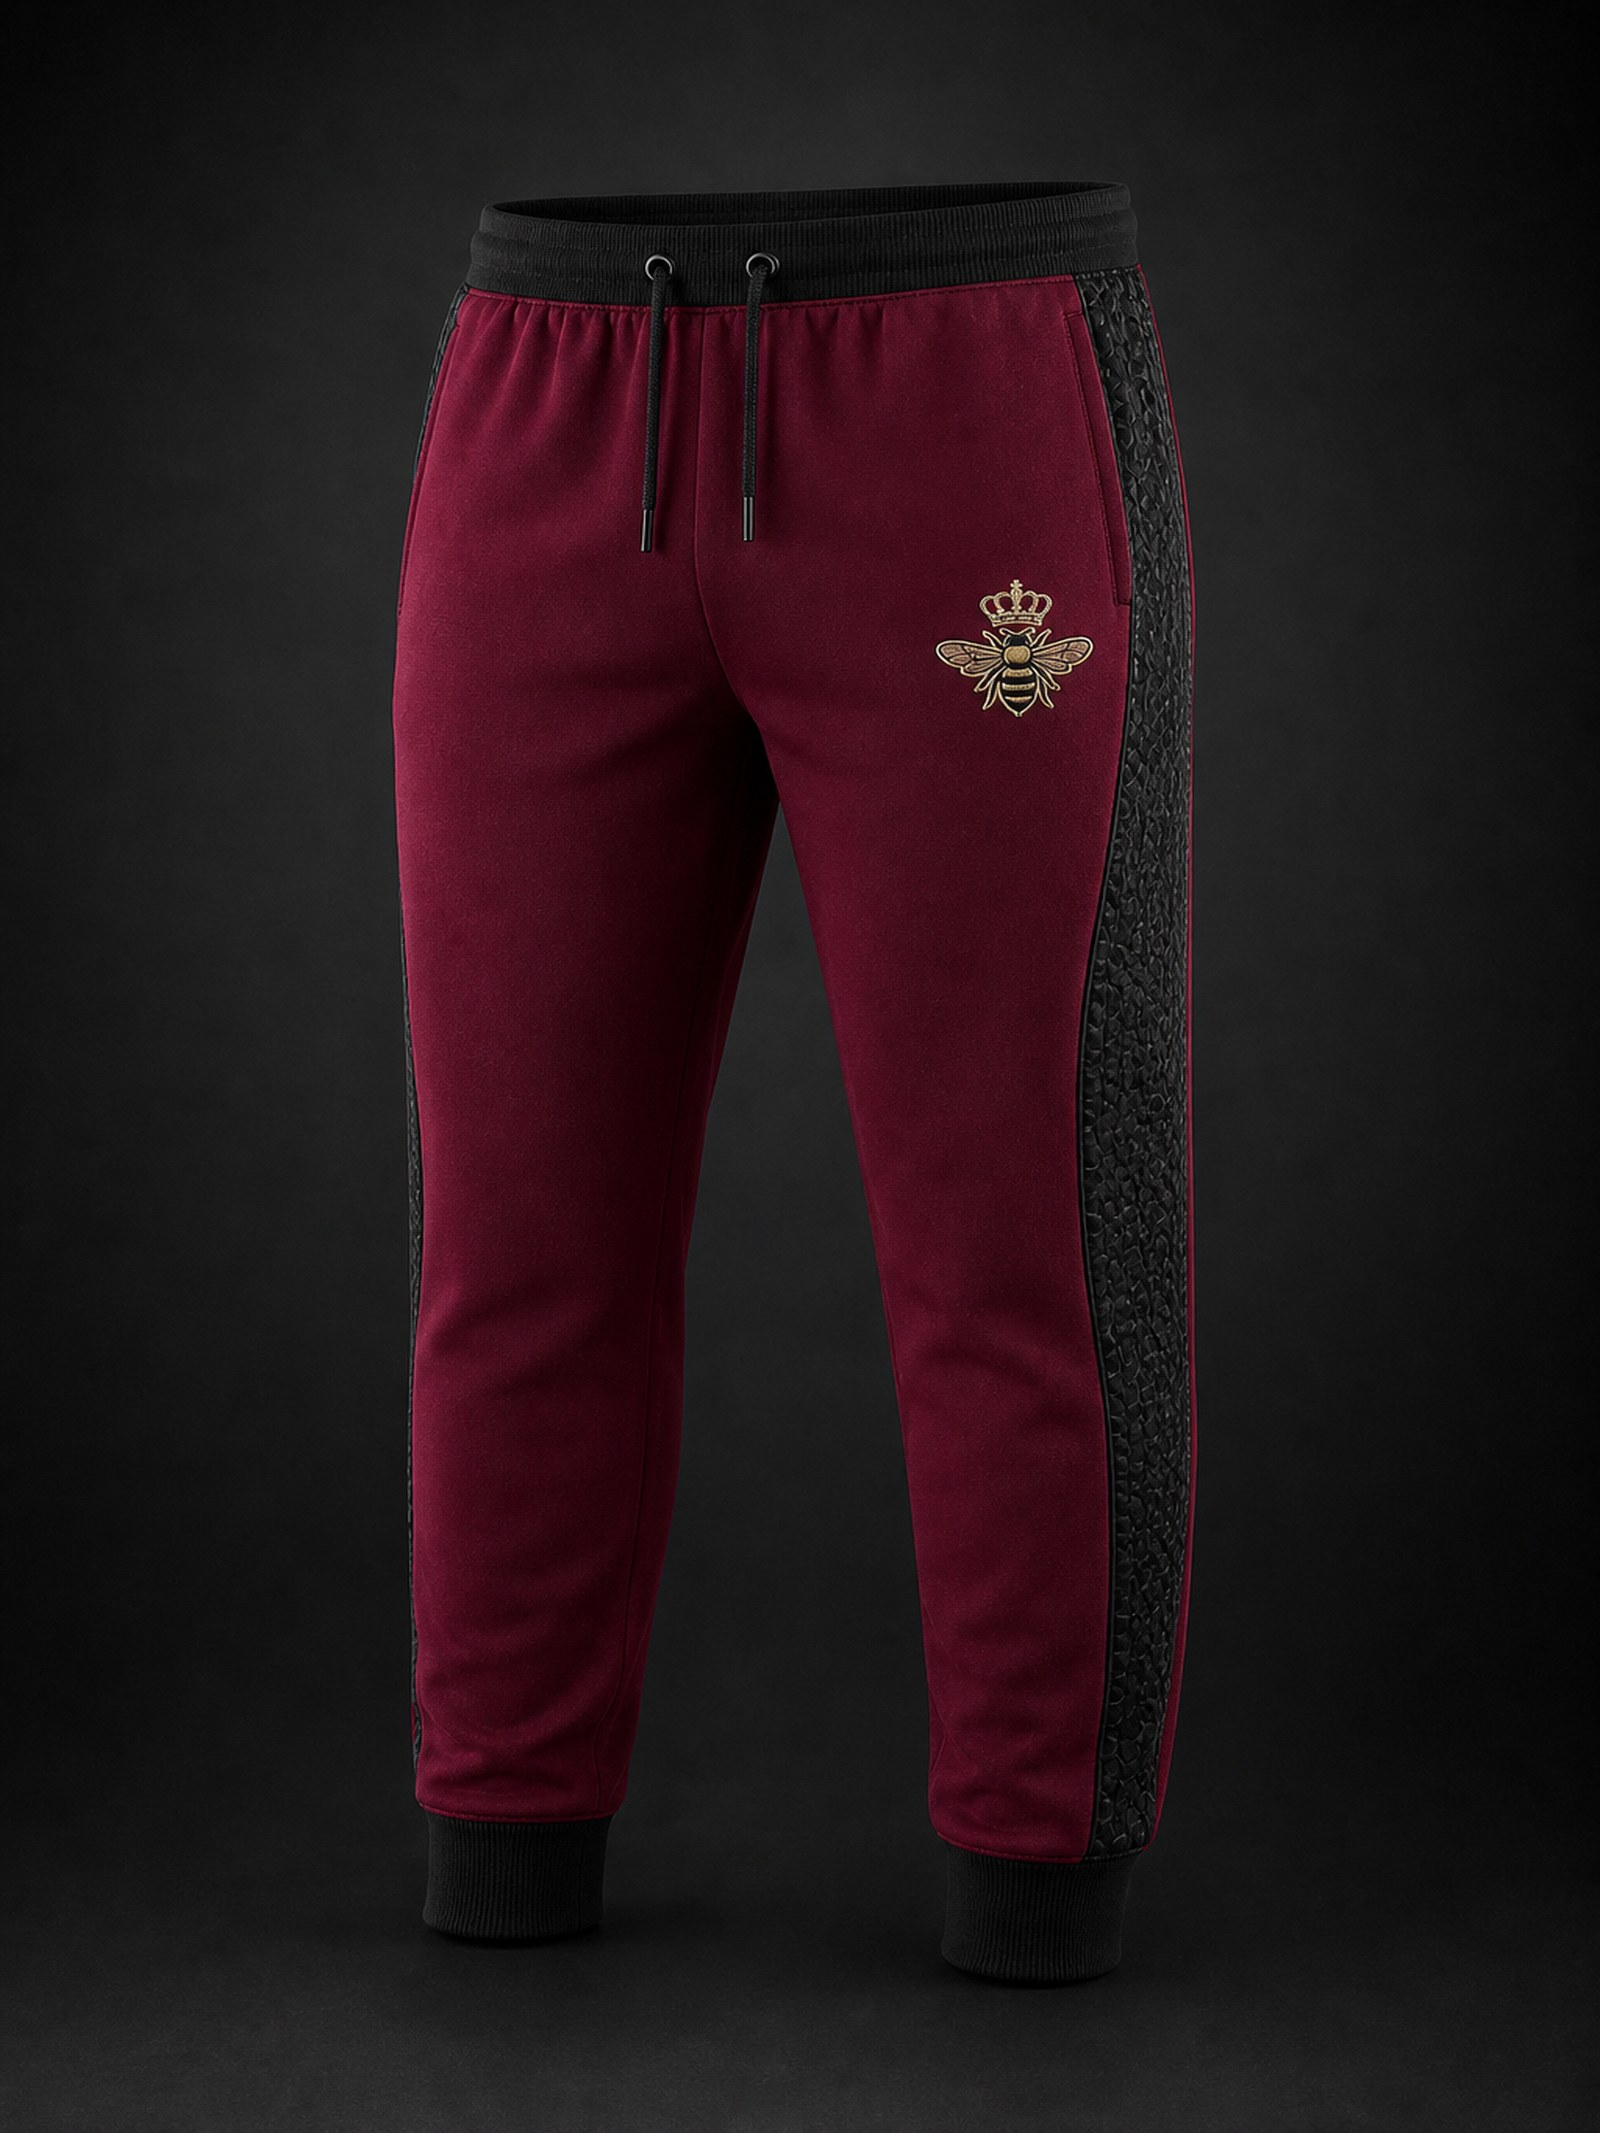
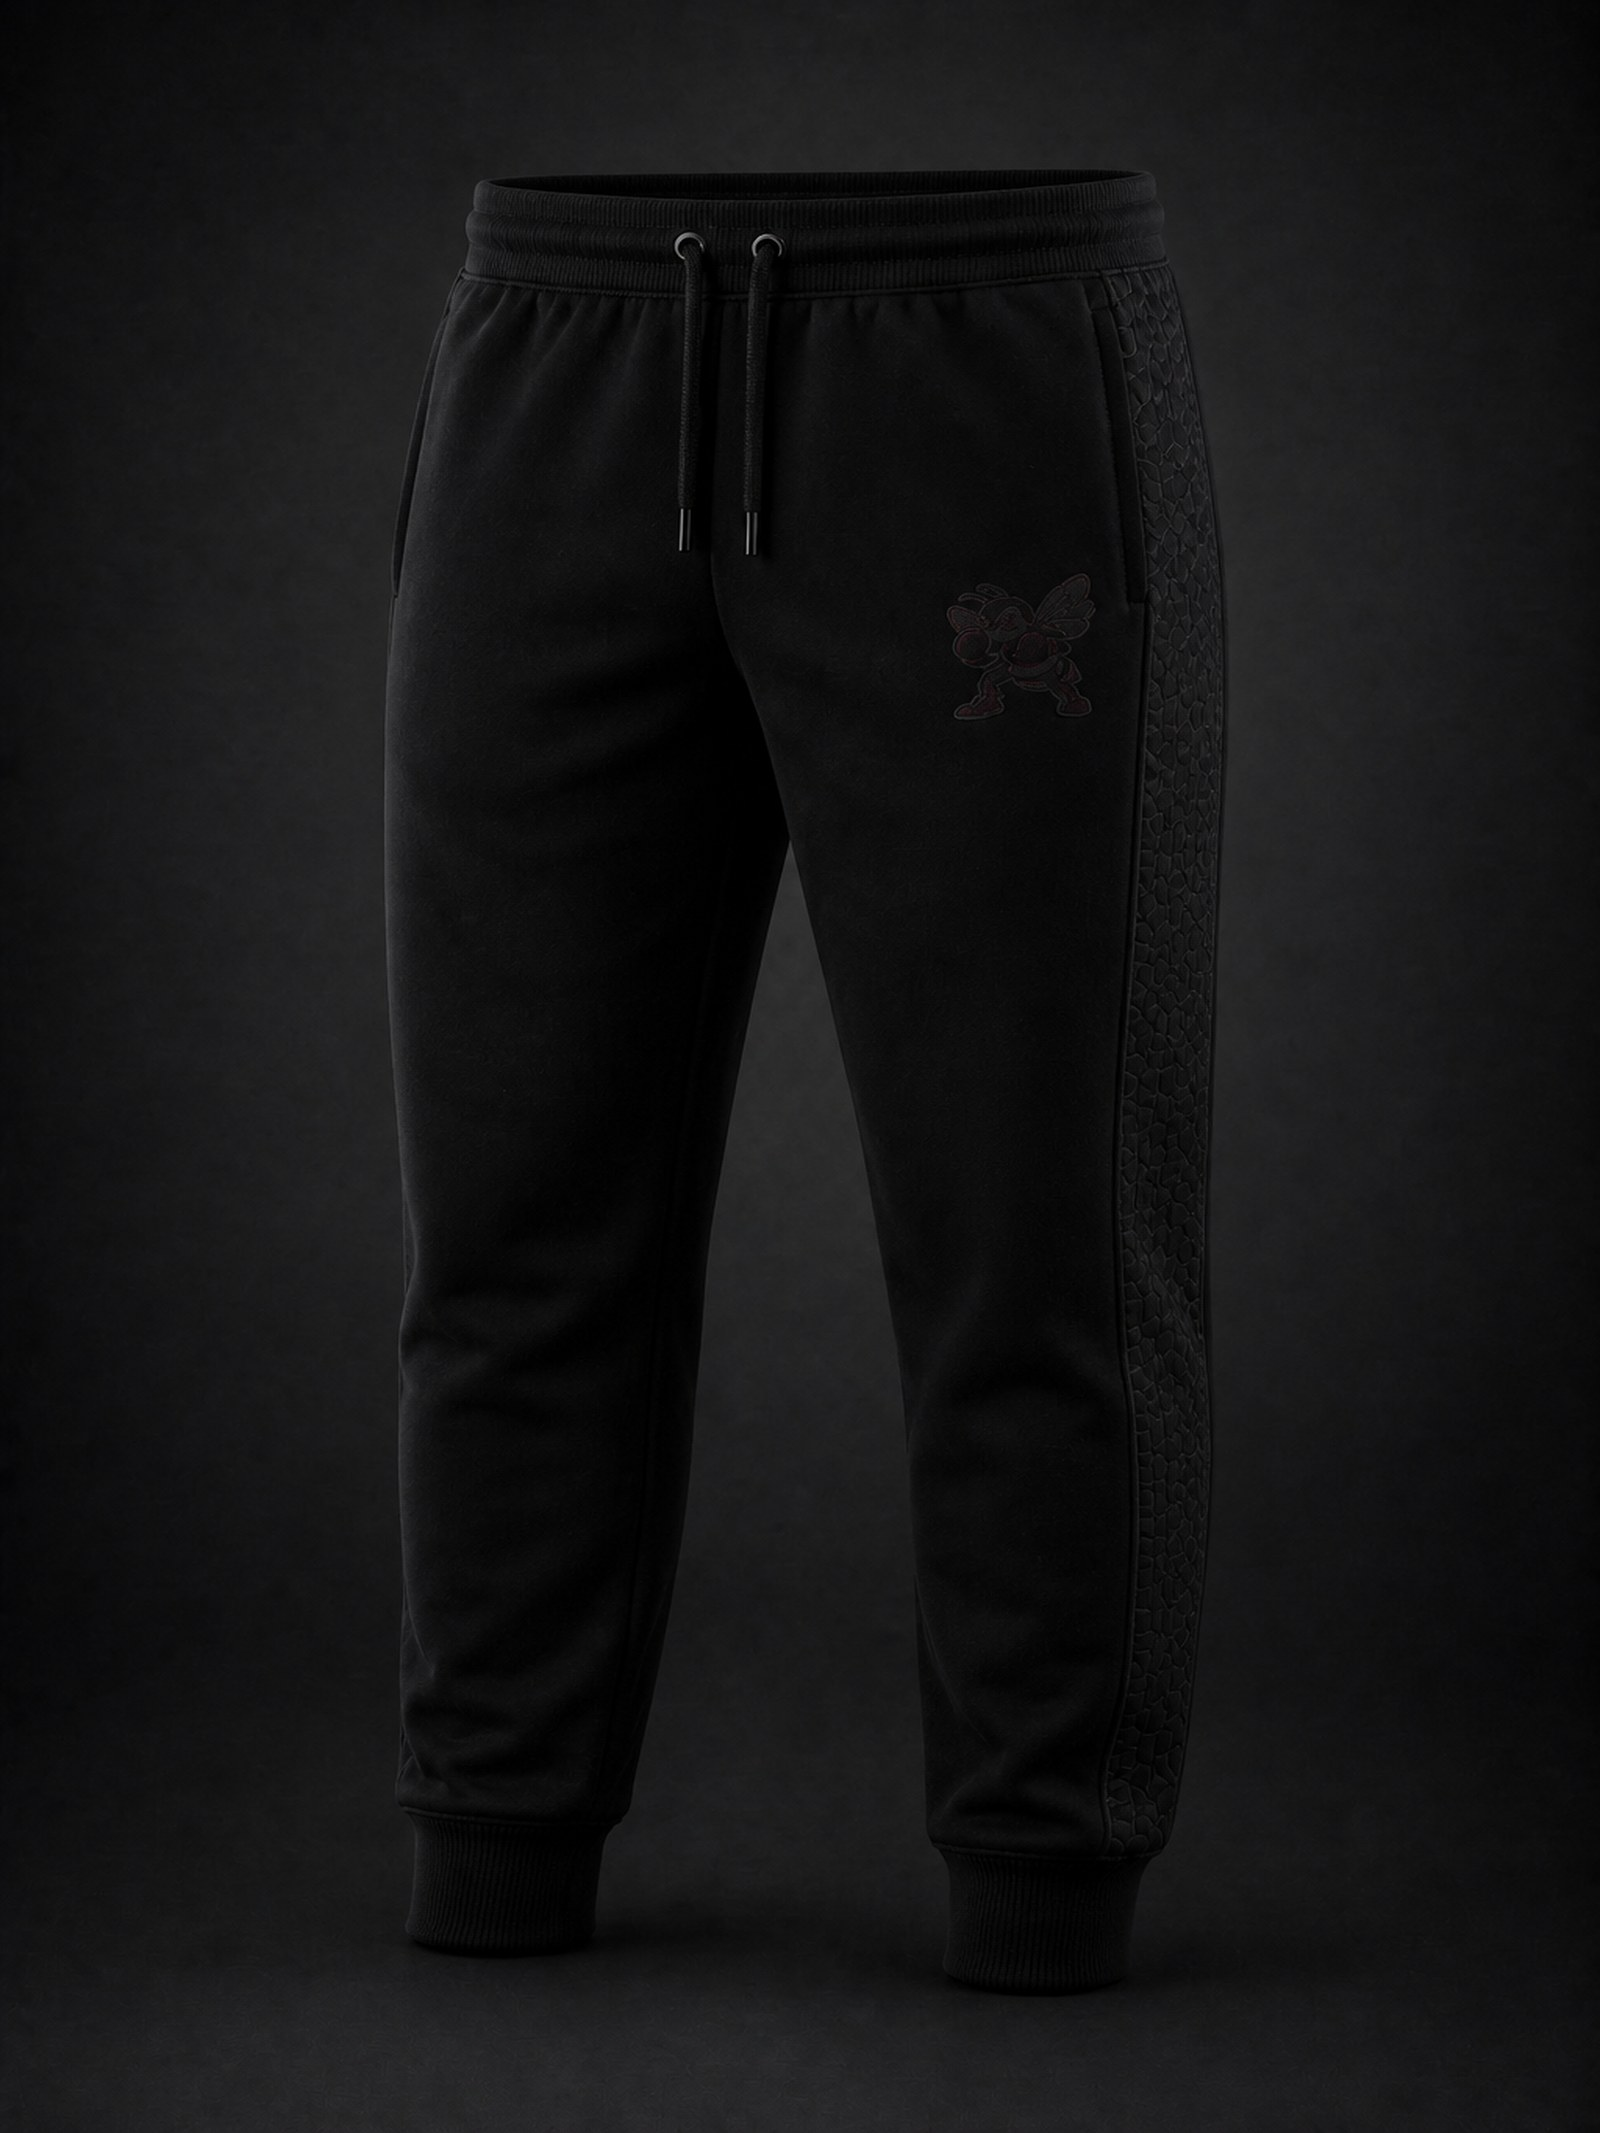
Restyle sweatpants as blackout athletic joggers
Replace the garnet sweats with all-black front/side previews, tonal side-panel motif, and Blackout Sweatpants naming/copy.

Changed region(s): [[0.2188, 0.0619, 0.75, 0.8973]]

diff --git a/src/lib/catalog.ts b/src/lib/catalog.ts
@@ -311,8 +311,8 @@ export const PRODUCTS: CatalogProduct[] = [
   {
     id: "sweatpants",
     handle: "bayonne-bees-sweatpants",
-    name: "Match Sweatpants",
-    blurb: "Garnet field. Geometric side panel you pick. Crest on the left thigh. Motif only.",
+    name: "Blackout Sweatpants",
+    blurb: "All black. Tonal geometric side panel you pick. Crest on the left thigh. Motif only.",
     category: "warmups",
     price: 58,
     customizable: true,

diff --git a/docs/MERCHIZE_LISTING_MAP.md b/docs/MERCHIZE_LISTING_MAP.md
@@ -70,7 +70,7 @@ Extra tag when customizable: `custom-name-number`
 | 7 | `bayonne-bees-crewneck` | AOP crewneck sweatshirt | Warm-up | No — motif on side panels | — |
 | 8 | `bayonne-bees-ls-jersey` | Long-sleeve V-neck athletic jersey | Warm-up | Script front + Name/# back | — |
 | 9 | `bayonne-bees-quarter-zip` | Quarter-zip pullover | Warm-up | Chest crest only | — |
-| 10 | `bayonne-bees-sweatpants` | AOP / panel sweatpants | Warm-up | No — motif on side only | — |
+| 10 | `bayonne-bees-sweatpants` | Blackout panel sweatpants | Warm-up | No — motif on side only | — |
 | 11 | `bayonne-bees-geo-shorts` | AOP geometric lifestyle shorts | Separate | No — motif on side only | — |
 
 **PDP preview pairs**
@@ -201,13 +201,14 @@ One-piece mid-thigh jersey dress. Color-block chest logo (not all-white).
 | Body | Tonal geo / marble distress in maroon-black-grey |
 | No back number | — |
 
-### 9. Match sweatpants (`bayonne-bees-sweatpants`)
+### 9. Blackout sweatpants (`bayonne-bees-sweatpants`)
 
-App preview: **front + side**. Motif on outer leg panel; crest left thigh. No typography.
+App preview: **front + side**. All-black body; tonal motif on outer leg panel; crest left thigh. No typography.
 
 | Zone | Placement | Art |
 |---|---|---|
-| Side panels | Hip to ankle | Customer motif (chevron / grid / arc) |
+| Body | Full | Solid black |
+| Side panels | Hip to ankle | Tonal black motif (chevron / grid / arc) |
 | Soft brand | Left thigh | Small boxing-bee crest |
 | Waist / cuff | Black rib | Drawcord optional |
 

diff --git a/docs/OGILVY_STORE_COPY.md b/docs/OGILVY_STORE_COPY.md
@@ -62,7 +62,7 @@ Prices from current catalog. Fabric weights cut until measured.
 - **Hoops Jersey** — $52. Black mesh. Garnet trim. Crest left. Number on the chest.
 - **Jersey Dress** — $72. One-piece sideline cut. Color-block basketball crest. Name and number on the back.
 - **1936 Crewneck** — $64. Garnet body, black geo side panels (front + side). Motif only — no lettering.
-- **Match Sweatpants** — $58. Garnet field. Geometric side panel you pick (front + side). Motif only.
+- **Blackout Sweatpants** — $58. All black. Tonal geometric side panel you pick (front + side). Motif only.
 - **Long-Sleeve Jersey** — $62. Name and number on the back. Year inside the collar.
 - **Quarter-Zip** — $68. Crest on the left chest. Nothing else on the front.
 - **Alumni Shorts** — $42. Same garnet as the match strip. Geometric side panel off the field (front + side).

diff --git a/src/assets/bayonne/previews/README.md b/src/assets/bayonne/previews/README.md
@@ -21,7 +21,7 @@ Ghost mannequin / product still, studio lighting, full garment in frame.
 | Match Shorts | `shorts-front.jpg` | `shorts-side.jpg` |
 | Alumni Shorts | `geo-shorts-front.jpg` | `geo-shorts-side.jpg` |
 | 1936 Crewneck | `crew-front.jpg` | `crew-side.jpg` |
-| Match Sweatpants | `sweats-front.jpg` | `sweats-side.jpg` |
+| Blackout Sweatpants | `sweats-front.jpg` | `sweats-side.jpg` |
 | AOP Hat | `hat-front.jpg` | `hat-side.jpg` |
 
 Category campaign heroes live in `../heroes/` and are separate — do not overwrite them from this folder.
